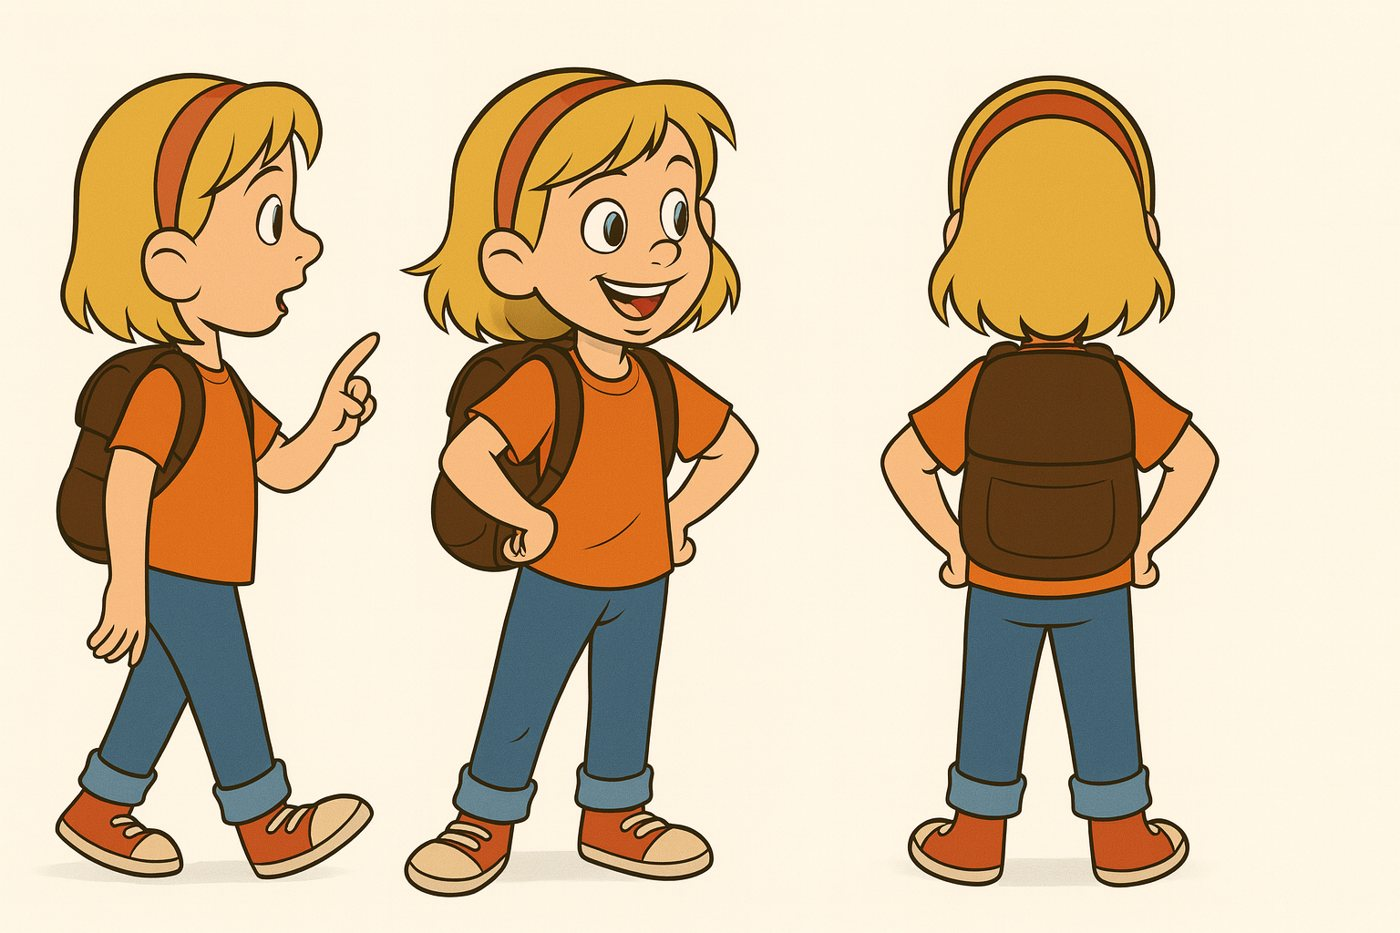
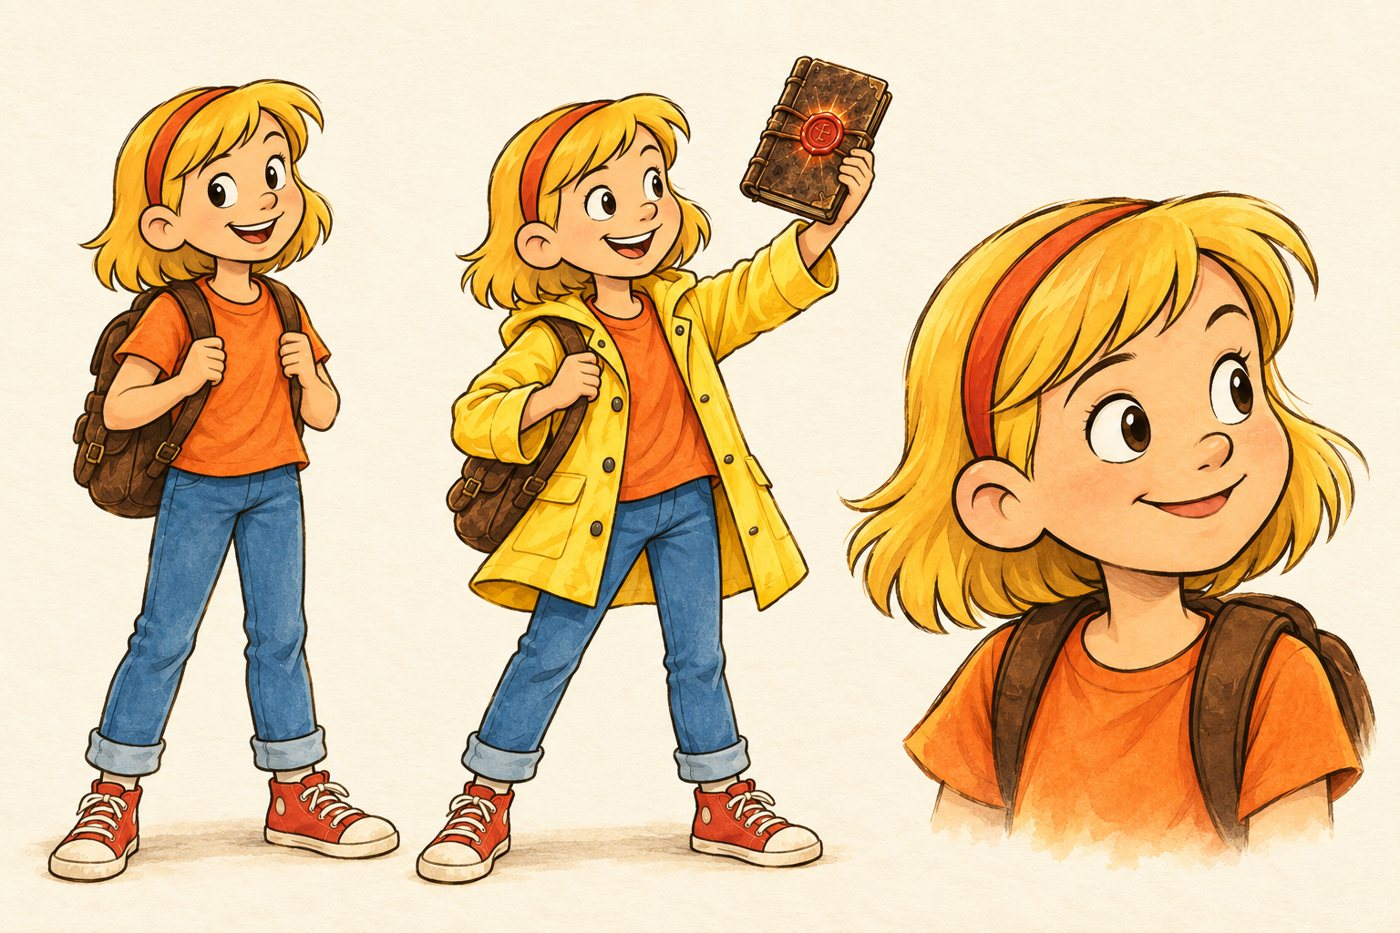
Penny v2 på granskningssidan

diff --git a/characters/index.html b/characters/index.html
@@ -29,9 +29,9 @@
 <section><div class="wrap">
 <div class="eyebrow">Internt, för granskning</div>
 <h1>Alla karaktärer</h1>
-<div class="note"><b>Så granskar du:</b> tryck på en bild för full storlek. Skriv vad du vill ändra per karaktär (namn + ändring), så gör jag om just dem. Penny-världens karaktärer är nya (v2) i samma stil som omslagen. Ben, Maya och Alex är de karaktärsark som böckerna bygger på i dag, och de har en mörk vinjett som inte matchar Penny-världen. Säg till om de ska göras om på samma sätt.</div>
+<div class="note"><b>Så granskar du:</b> tryck på en bild för full storlek. Skriv vad du vill ändra per karaktär (namn + ändring), så gör jag om just dem. Alla karaktärer i Penny-världen, även Penny, är nya (v2) i samma stil som omslagen. Fäll ut "Visa gamla designen" för att se skillnaden. Ben, Maya och Alex är de karaktärsark som böckerna bygger på i dag, och de har en mörk vinjett som inte matchar Penny-världen. Säg till om de ska göras om på samma sätt.</div>
 <h2>Penny and the Golden Notebook (7–10) och Penny and the Seed (3–6)</h2>
 <div class="grid-ch">
-<article class="ch"><a href="img/penny.jpg" target="_blank"><img src="img/penny.jpg" alt="Penny Lind, 9" loading="lazy"></a><div class="meta"><span class="tag">Huvudperson</span><h3>Penny Lind, 9</h3><p>Oförändrad (din design). Blond page, orange hårband, ryggsäck. Nyfiken, snabb, lovar för mycket, ger aldrig upp och <i>ser</i> människor.</p><details><summary>Visa Pennys uttryck</summary><img src="img/penny-expr.jpg" alt="Pennys uttryck" loading="lazy"></details></div></article><article class="ch"><a href="img/tommy.jpg" target="_blank"><img src="img/tommy.jpg" alt="Tommy Lind, 6" loading="lazy"></a><div class="meta"><span class="tag">Ny v2</span><h3>Tommy Lind, 6</h3><p>Lillebror. Rött rufsigt hår, blå keps, fräknar, glugg. Frågar "varför?" om allt. Omgjord en gång: v1 fick glasögon.</p><details><summary>Visa gamla designen</summary><img src="img/tommy-old.jpg" alt="Gamla Tommy Lind, 6" loading="lazy"></details></div></article><article class="ch"><a href="img/emma.jpg" target="_blank"><img src="img/emma.jpg" alt="Emma Holm, 9" loading="lazy"></a><div class="meta"><span class="tag">Ny v2</span><h3>Emma Holm, 9</h3><p>Bästa vännen. Långt kopparrött hår, runda glasögon, gul stickad tröja, anteckningsblock. Den noggranna som räknar.</p><details><summary>Visa gamla designen</summary><img src="img/emma-old.jpg" alt="Gamla Emma Holm, 9" loading="lazy"></details></div></article><article class="ch"><a href="img/grandma.jpg" target="_blank"><img src="img/grandma.jpg" alt="Mormor Rose" loading="lazy"></a><div class="meta"><span class="tag">Ny v2</span><h3>Mormor Rose</h3><p>Silvergrå knut, runda glasögon, förkläde med mjöl. Ger aldrig svar, bara frågor: "Och vad tror du själv?"</p><details><summary>Visa gamla designen</summary><img src="img/grandma-old.jpg" alt="Gamla Mormor Rose" loading="lazy"></details></div></article><article class="ch"><a href="img/dad.jpg" target="_blank"><img src="img/dad.jpg" alt="Pappa Johan" loading="lazy"></a><div class="meta"><span class="tag">Ny v2</span><h3>Pappa Johan</h3><p>Snickare med egen firma. Stor, lugn, skägg, sågspån i håret, verktygsbälte. Omgjord: v1 hade glasögon.</p><details><summary>Visa gamla designen</summary><img src="img/dad-old.jpg" alt="Gamla Pappa Johan" loading="lazy"></details></div></article><article class="ch"><a href="img/mom.jpg" target="_blank"><img src="img/mom.jpg" alt="Mamma Sara" loading="lazy"></a><div class="meta"><span class="tag">Ny v2</span><h3>Mamma Sara</h3><p>Sjuksköterska som jobbar natt. Blond hästsvans, varm men trött, skrattar högt.</p><details><summary>Visa gamla designen</summary><img src="img/mom-old.jpg" alt="Gamla Mamma Sara" loading="lazy"></details></div></article><article class="ch"><a href="img/marcus.jpg" target="_blank"><img src="img/marcus.jpg" alt="Marcus Berg, 10" loading="lazy"></a><div class="meta"><span class="tag">Ny v2</span><h3>Marcus Berg, 10</h3><p>Rivalen. Ny jacka, ny cykel, självsäker. Blir långsamt en vän. <b>OBS: skorna har en Nike-logga som måste bort.</b></p><details><summary>Visa gamla designen</summary><img src="img/marcus-old.jpg" alt="Gamla Marcus Berg, 10" loading="lazy"></details></div></article><article class="ch"><a href="img/mrgreen.jpg" target="_blank"><img src="img/mrgreen.jpg" alt="Mr. Green (Åke Grön)" loading="lazy"></a><div class="meta"><span class="tag">Ny v2</span><h3>Mr. Green (Åke Grön)</h3><p>Gammal granne med stort äppelträd och dålig rygg. Kort i tonen, mjuk inuti.</p><details><summary>Visa gamla designen</summary><img src="img/mrgreen-old.jpg" alt="Gamla Mr. Green (Åke Grön)" loading="lazy"></details></div></article><article class="ch"><a href="img/mrslee.jpg" target="_blank"><img src="img/mrslee.jpg" alt="Mrs. Lee + Cinnamon" loading="lazy"></a><div class="meta"><span class="tag">Ny v2</span><h3>Mrs. Lee + Cinnamon</h3><p>Jobbar långa dagar på apoteket. Golden retrievern Cinnamon rymmer jämt.</p><details><summary>Visa gamla designen</summary><img src="img/mrslee-old.jpg" alt="Gamla Mrs. Lee + Cinnamon" loading="lazy"></details></div></article>
+<article class="ch"><a href="img/penny.jpg" target="_blank"><img src="img/penny.jpg" alt="Penny Lind, 9" loading="lazy"></a><div class="meta"><span class="tag">Ny v2</span><h3>Penny Lind, 9</h3><p>Huvudpersonen. Samma design som förut (blond page, orange hårband, orange t-shirt, ryggsäck, röda skor) men nu i omslagets akvarellstil, med den gula regnjackan från omslaget.</p><details><summary>Visa gamla designen</summary><img src="img/penny-old.jpg" alt="Gamla Penny" loading="lazy"></details><details><summary>Visa gamla uttrycksarket</summary><img src="img/penny-expr.jpg" alt="Pennys gamla uttryck" loading="lazy"></details></div></article><article class="ch"><a href="img/tommy.jpg" target="_blank"><img src="img/tommy.jpg" alt="Tommy Lind, 6" loading="lazy"></a><div class="meta"><span class="tag">Ny v2</span><h3>Tommy Lind, 6</h3><p>Lillebror. Rött rufsigt hår, blå keps, fräknar, glugg. Frågar "varför?" om allt. Omgjord en gång: v1 fick glasögon.</p><details><summary>Visa gamla designen</summary><img src="img/tommy-old.jpg" alt="Gamla Tommy Lind, 6" loading="lazy"></details></div></article><article class="ch"><a href="img/emma.jpg" target="_blank"><img src="img/emma.jpg" alt="Emma Holm, 9" loading="lazy"></a><div class="meta"><span class="tag">Ny v2</span><h3>Emma Holm, 9</h3><p>Bästa vännen. Långt kopparrött hår, runda glasögon, gul stickad tröja, anteckningsblock. Den noggranna som räknar.</p><details><summary>Visa gamla designen</summary><img src="img/emma-old.jpg" alt="Gamla Emma Holm, 9" loading="lazy"></details></div></article><article class="ch"><a href="img/grandma.jpg" target="_blank"><img src="img/grandma.jpg" alt="Mormor Rose" loading="lazy"></a><div class="meta"><span class="tag">Ny v2</span><h3>Mormor Rose</h3><p>Silvergrå knut, runda glasögon, förkläde med mjöl. Ger aldrig svar, bara frågor: "Och vad tror du själv?"</p><details><summary>Visa gamla designen</summary><img src="img/grandma-old.jpg" alt="Gamla Mormor Rose" loading="lazy"></details></div></article><article class="ch"><a href="img/dad.jpg" target="_blank"><img src="img/dad.jpg" alt="Pappa Johan" loading="lazy"></a><div class="meta"><span class="tag">Ny v2</span><h3>Pappa Johan</h3><p>Snickare med egen firma. Stor, lugn, skägg, sågspån i håret, verktygsbälte. Omgjord: v1 hade glasögon.</p><details><summary>Visa gamla designen</summary><img src="img/dad-old.jpg" alt="Gamla Pappa Johan" loading="lazy"></details></div></article><article class="ch"><a href="img/mom.jpg" target="_blank"><img src="img/mom.jpg" alt="Mamma Sara" loading="lazy"></a><div class="meta"><span class="tag">Ny v2</span><h3>Mamma Sara</h3><p>Sjuksköterska som jobbar natt. Blond hästsvans, varm men trött, skrattar högt.</p><details><summary>Visa gamla designen</summary><img src="img/mom-old.jpg" alt="Gamla Mamma Sara" loading="lazy"></details></div></article><article class="ch"><a href="img/marcus.jpg" target="_blank"><img src="img/marcus.jpg" alt="Marcus Berg, 10" loading="lazy"></a><div class="meta"><span class="tag">Ny v2</span><h3>Marcus Berg, 10</h3><p>Rivalen. Ny jacka, ny cykel, självsäker. Blir långsamt en vän. <b>OBS: skorna har en Nike-logga som måste bort.</b></p><details><summary>Visa gamla designen</summary><img src="img/marcus-old.jpg" alt="Gamla Marcus Berg, 10" loading="lazy"></details></div></article><article class="ch"><a href="img/mrgreen.jpg" target="_blank"><img src="img/mrgreen.jpg" alt="Mr. Green (Åke Grön)" loading="lazy"></a><div class="meta"><span class="tag">Ny v2</span><h3>Mr. Green (Åke Grön)</h3><p>Gammal granne med stort äppelträd och dålig rygg. Kort i tonen, mjuk inuti.</p><details><summary>Visa gamla designen</summary><img src="img/mrgreen-old.jpg" alt="Gamla Mr. Green (Åke Grön)" loading="lazy"></details></div></article><article class="ch"><a href="img/mrslee.jpg" target="_blank"><img src="img/mrslee.jpg" alt="Mrs. Lee + Cinnamon" loading="lazy"></a><div class="meta"><span class="tag">Ny v2</span><h3>Mrs. Lee + Cinnamon</h3><p>Jobbar långa dagar på apoteket. Golden retrievern Cinnamon rymmer jämt.</p><details><summary>Visa gamla designen</summary><img src="img/mrslee-old.jpg" alt="Gamla Mrs. Lee + Cinnamon" loading="lazy"></details></div></article>
 </div>
 <h2 style="margin-top:40px">Ben och Uppfinnarens karta (7–10)</h2><article class="ch"><a href="img/ben-cast.jpg" target="_blank"><img src="img/ben-cast.jpg" alt="Ben och Uppfinnarens karta (7–10)" loading="lazy"></a><div class="meta"><span class="tag">Nuvarande ark</span><p style="margin-top:8px">Ben Ek 10, lillasyster Ella 7, Signe Holm 82 (Solgården), Liv 11, Omar 10, kommunrådet Berit Stål, en äldre man med nycklar (Edvin-kopplad), mamma Karin (undersköterska). Pappa Mats saknas på arket.</p></div></article><h2 style="margin-top:40px">Maya och Tornets utmaning (11–14)</h2><article class="ch"><a href="img/maya-cast.jpg" target="_blank"><img src="img/maya-cast.jpg" alt="Maya och Tornets utmaning (11–14)" loading="lazy"></a><div class="meta"><span class="tag">Nuvarande ark</span><p style="margin-top:8px">Övre raden: Maya Falk 13, Adam Karimi 14, Sofia Holm 13, Leo Strand 12, lillebror Ivar 8 och en tonåring i luvtröja. Nedre raden: mamma Linda, mormor Gun och rådet i vattentornet (Hanna, Ruth Ek med flera).</p></div></article><h2 style="margin-top:40px">The Condition / Villkoret (15–18)</h2><article class="ch"><a href="img/alex-cast.jpg" target="_blank"><img src="img/alex-cast.jpg" alt="The Condition / Villkoret (15–18)" loading="lazy"></a><div class="meta"><span class="tag">Nuvarande ark</span><p style="margin-top:8px">Övre raden: Alex Moberg 17, Nils Åberg, Sara Haddad, lillasyster Wilma med flera. Nedre raden: Edith Lagerlund 78, pappa Tomas (svetsare), mamma Helena (sjuksköterska), Rami Saleh (arbetsledare på varvet), Kenneth Ström (mekaniker).</p></div></article></div></section></body></html>
